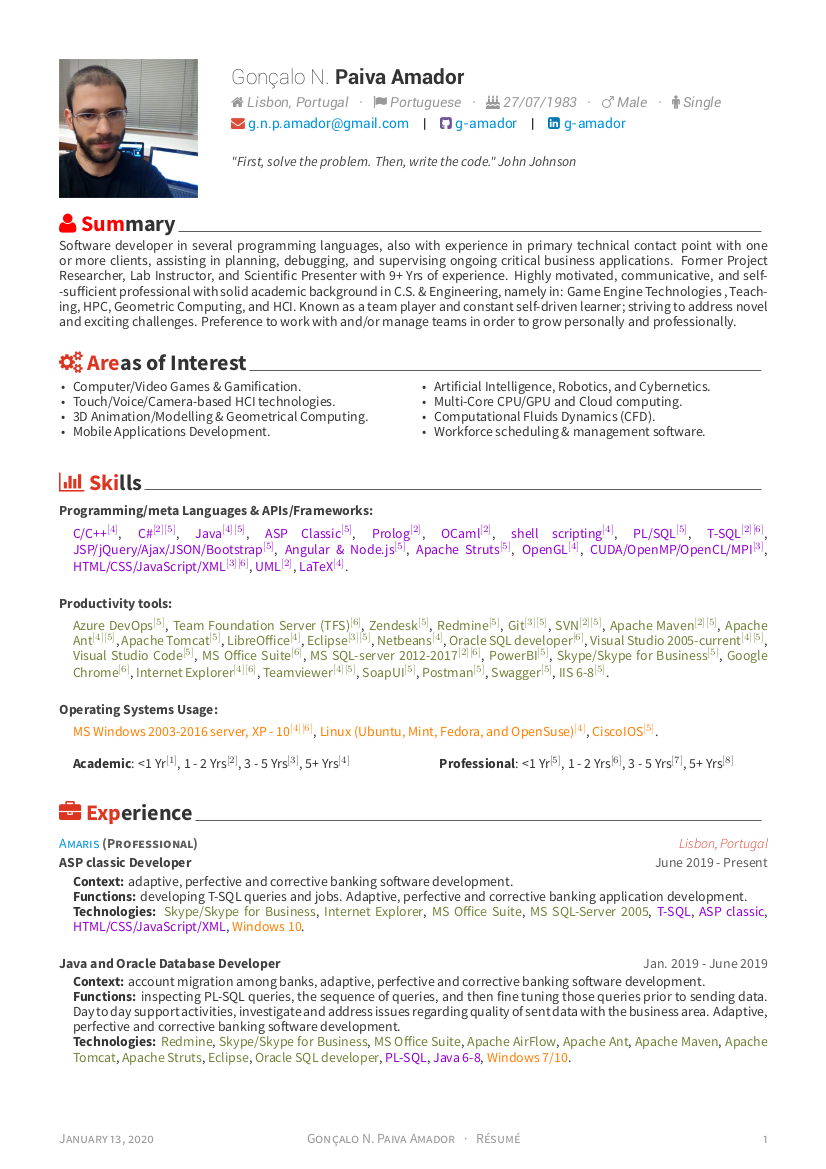
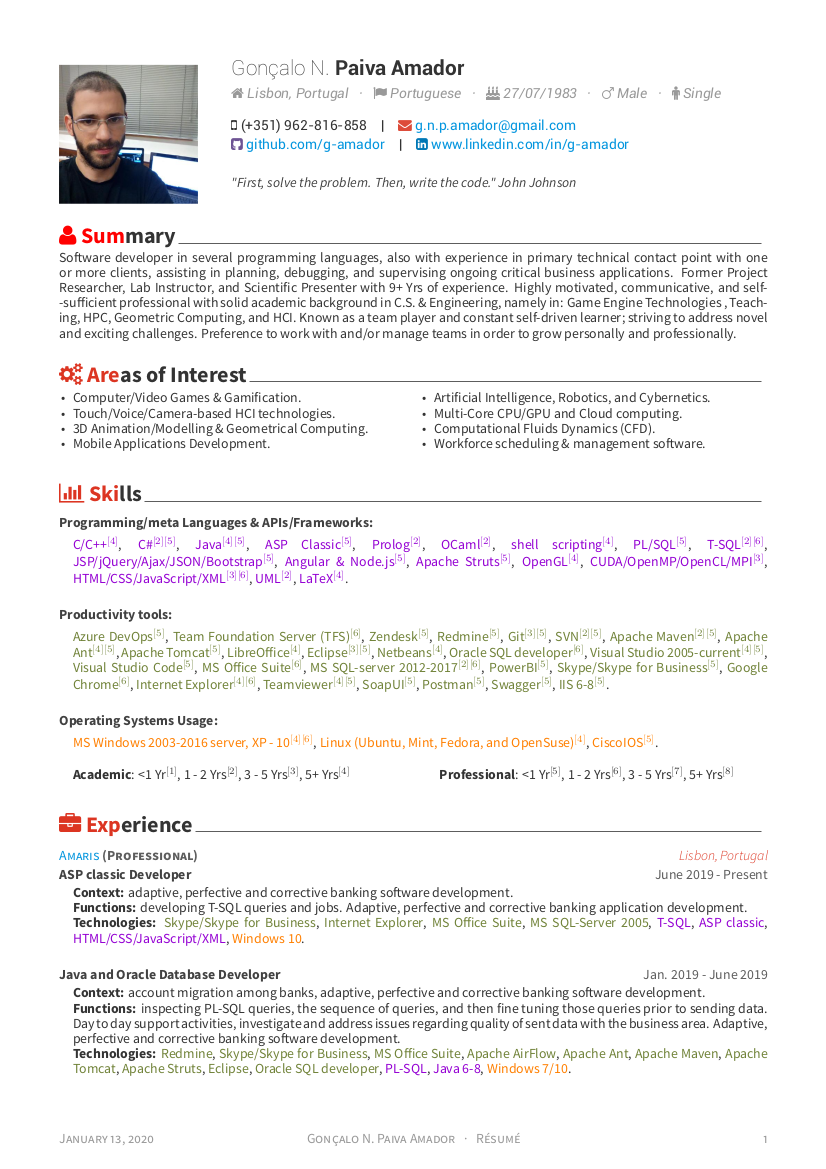
"Minor corrections."

Changed region(s): [[0.0605, 0.0308, 0.9383, 0.9239], [0.8172, 0.0616, 0.8777, 0.0924]]

diff --git a/examples/resume.tex b/examples/resume.tex
@@ -65,15 +65,15 @@
 }
 %\address{Rua das Oper\'arias Conserveiras, n.$^o$ 15, 2520-639, Peniche, Portugal}
 
-%\mobile{(+351) 96-281-68-58} 
+\mobile{(+351) 962-816-858} 
 \email{g.n.p.amador@gmail.com}
 %\homepage{www.posquit0.com}
-\github{g-amador}
+\github{github.com/g-amador}
 %\bitbucket{g-amador}
 %\stackoverflow{SO-id}{SO-name}
 %\orcid{0000-0001-5798-2701} %No icon not working yet
 %\researchgate{Goncalo\_Amador} %No icon not working yet
-\linkedin{g-amador}
+\linkedin{www.linkedin.com/in/g-amador}
 %\twitter{@twit}
 %\skype{gnpa\_skype}
 %\reddit{reddit-id}
